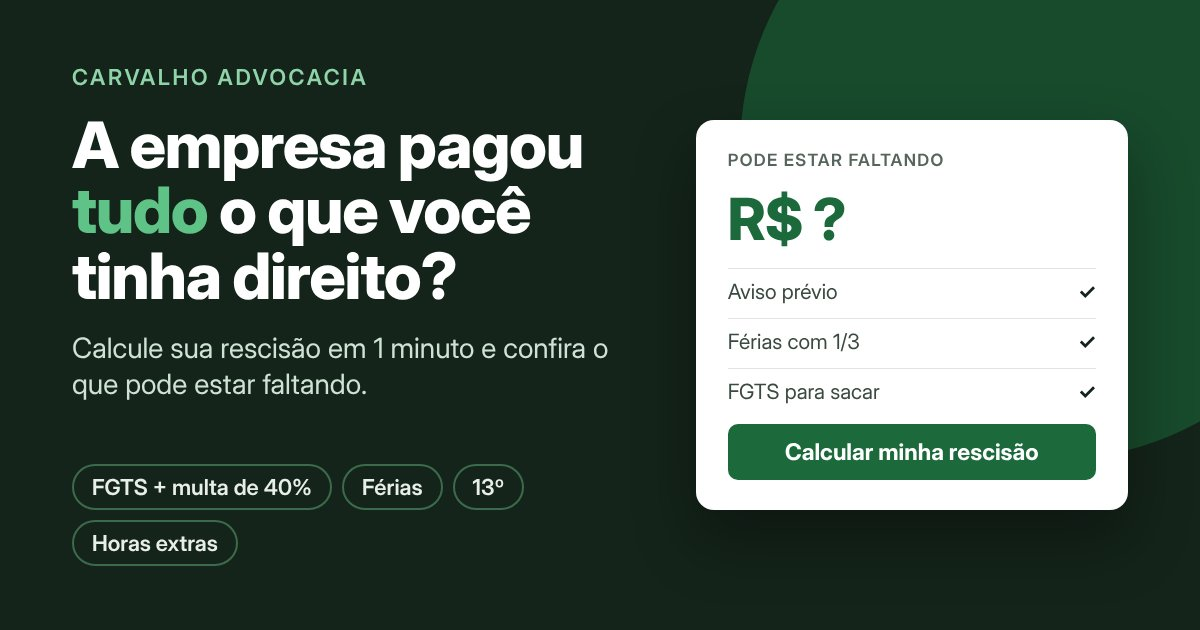
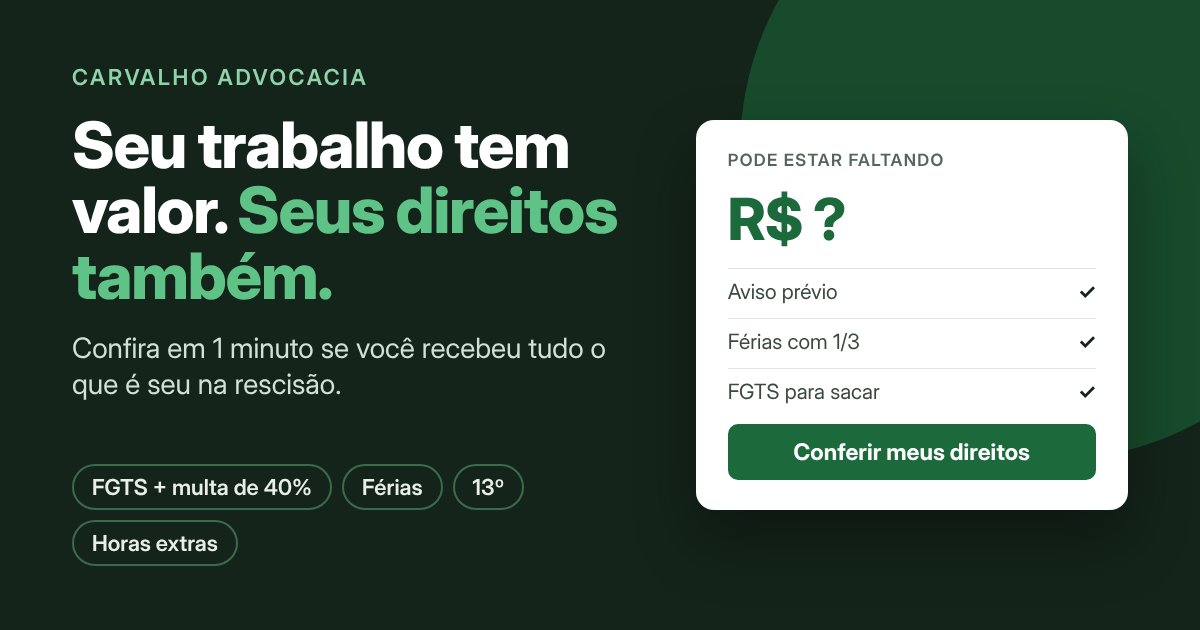
Calculadora: nova apresentação inicial focada nos direitos do trabalhador
Claude-Session: https://claude.ai/code/session_01KqqVd7eJYDchQ7syju8oCf

Changed region(s): [[0.0617, 0.181, 0.5242, 0.4825], [0.0617, 0.5429, 0.5242, 0.6333], [0.6475, 0.6937, 0.8633, 0.754]]

diff --git a/trabalhista/index.html b/trabalhista/index.html
@@ -6,8 +6,8 @@
 <meta name="description" content="Calcule sua rescisão em 1 minuto: valor líquido, FGTS, multa de 40%, férias, 13º e horas extras.">
 <meta property="og:type" content="website">
 <meta property="og:url" content="https://brunogiraud.github.io/diagnostico/trabalhista/">
-<meta property="og:title" content="A empresa pagou tudo o que você tinha direito?">
-<meta property="og:description" content="Calcule sua rescisão em 1 minuto: valor líquido, FGTS, multa de 40%, férias, 13º e horas extras.">
+<meta property="og:title" content="Seu trabalho tem valor. Seus direitos também.">
+<meta property="og:description" content="Confira em 1 minuto se você recebeu tudo na rescisão: aviso prévio, férias, 13º, FGTS e multa de 40%.">
 <meta property="og:image" content="https://brunogiraud.github.io/diagnostico/trabalhista/capa.jpg">
 <meta property="og:image:width" content="1200">
 <meta property="og:image:height" content="630">
@@ -66,6 +66,21 @@ p{margin:0}
 .conf b{font-family:var(--display);font-size:16px;line-height:1.15}
 .conf span{font-size:12.5px;color:var(--muted);line-height:1.3}
 @media (max-width:380px){.conf{grid-template-columns:1fr}}
+.lei{background:var(--surface);border:1px solid var(--line);border-radius:20px;padding:20px;display:flex;flex-direction:column;gap:14px}
+.lei h2{font-size:22px}
+.lei-grid{display:grid;grid-template-columns:1fr 1fr;gap:10px}
+@media (max-width:380px){.lei-grid{grid-template-columns:1fr}}
+.lei-grid div{background:var(--bg);border-radius:var(--r);padding:14px;display:flex;flex-direction:column;gap:4px;border-left:4px solid var(--accent)}
+.lei-grid .n{font-family:var(--display);font-weight:800;font-size:13px;color:var(--accent);letter-spacing:.08em}
+.lei-grid b{font-family:var(--display);font-size:18px;line-height:1.1}
+.lei-grid span:not(.n){font-size:14px;color:var(--muted);line-height:1.35}
+.frase{margin:0;background:var(--deep);color:#fff;border-radius:20px;padding:24px 22px;font-family:var(--display);font-weight:800;font-size:clamp(22px,6vw,28px);line-height:1.12;letter-spacing:-.01em;position:relative;overflow:hidden;isolation:isolate}
+.frase:before{content:"“";position:absolute;right:12px;top:-28px;font-size:160px;color:var(--glow);opacity:.18;z-index:-1;font-family:Georgia,serif}
+.frase span{display:block;font-family:var(--body);font-weight:500;font-size:15px;color:#cfe3d5;margin-top:10px;letter-spacing:0}
+.alerta{background:var(--warn-bg);border-radius:var(--r);padding:14px 16px;display:flex;flex-direction:column;gap:2px}
+.alerta b{font-family:var(--display);color:var(--warn);font-size:17px}
+.alerta span{font-size:15px}
+.topo h1{font-size:clamp(34px,9.5vw,48px)}
 .faq details{border-top:1px solid var(--line);padding:12px 2px}
 .faq summary{cursor:pointer;font-weight:600;list-style:none;display:flex;justify-content:space-between;gap:10px}
 .faq summary:after{content:"+";color:var(--accent);font-weight:700}
@@ -169,17 +184,22 @@ body.com-fixo{padding-bottom:110px}
   <section id="abertura" class="wrap">
     <header class="topo">
       <span class="marca">Carvalho Advocacia · Direito do Trabalho</span>
-      <h1>A empresa pagou <em>tudo</em> o que você tinha direito?</h1>
-      <p>Responda algumas perguntas e descubra quanto deveria ter recebido na rescisão, quanto tem de FGTS e quais direitos podem ter ficado para trás.</p>
-      <button class="btn" id="comecar" type="button">Calcular minha rescisão</button>
-      <ul class="selos"><li>Sem cadastro</li><li>Resultado na hora</li></ul>
-      <span class="tempo">Leva cerca de 1 minuto · Regras da CLT e tabelas de 2026</span>
+      <h1>Seu trabalho tem valor.<br><em>Seus direitos também.</em></h1>
+      <p>Cada dia que você trabalhou conta. A lei garante aviso prévio, férias, 13º e FGTS a quem foi desligado. Confira em 1 minuto se você recebeu tudo o que é seu.</p>
+      <button class="btn" id="comecar" type="button">Conferir meus direitos</button>
+      <ul class="selos"><li>Sem cadastro</li><li>Resultado na hora</li><li>Regras de 2026</li></ul>
     </header>
-    <div class="conf" aria-label="O que a calculadora confere">
-      <div><b>Rescisão</b><span>Aviso, férias, 13º e descontos</span></div>
-      <div><b>FGTS</b><span>Saldo e multa de 40%</span></div>
-      <div><b>Extras</b><span>Horas extras e salário por fora</span></div>
-    </div>
+    <section class="lei" aria-labelledby="lei-t">
+      <h2 id="lei-t">O que a lei garante a você</h2>
+      <div class="lei-grid">
+        <div><span class="n">1</span><b>Aviso prévio</b><span>30 dias, mais 3 por ano trabalhado, até 90 dias.</span></div>
+        <div><span class="n">2</span><b>Férias + 1/3</b><span>As proporcionais e as vencidas. Vencidas há mais tempo são pagas em dobro.</span></div>
+        <div><span class="n">3</span><b>13º salário</b><span>Proporcional aos meses trabalhados no ano.</span></div>
+        <div><span class="n">4</span><b>FGTS + 40%</b><span>Saque do saldo e multa de 40% na demissão sem justa causa.</span></div>
+      </div>
+    </section>
+    <blockquote class="frase">O que você conquistou trabalhando é seu por direito.<span>Conferir a rescisão é um direito de todo trabalhador.</span></blockquote>
+    <div class="alerta"><b>Atenção ao prazo</b><span>Depois da saída, você tem 2 anos para cobrar na Justiça o que ficou faltando.</span></div>
     <div class="faq">
       <details><summary>Preciso informar meu nome ou CPF?</summary><p>Não. A conta é feita no seu celular e nada do que você digita é armazenado. Só se quiser falar com o escritório você envia os dados pelo WhatsApp.</p></details>
       <details><summary>Até quando posso cobrar a empresa?</summary><p>Até dois anos depois da saída, cobrando os últimos cinco anos de contrato. A calculadora mostra a data limite do seu caso.</p></details>
